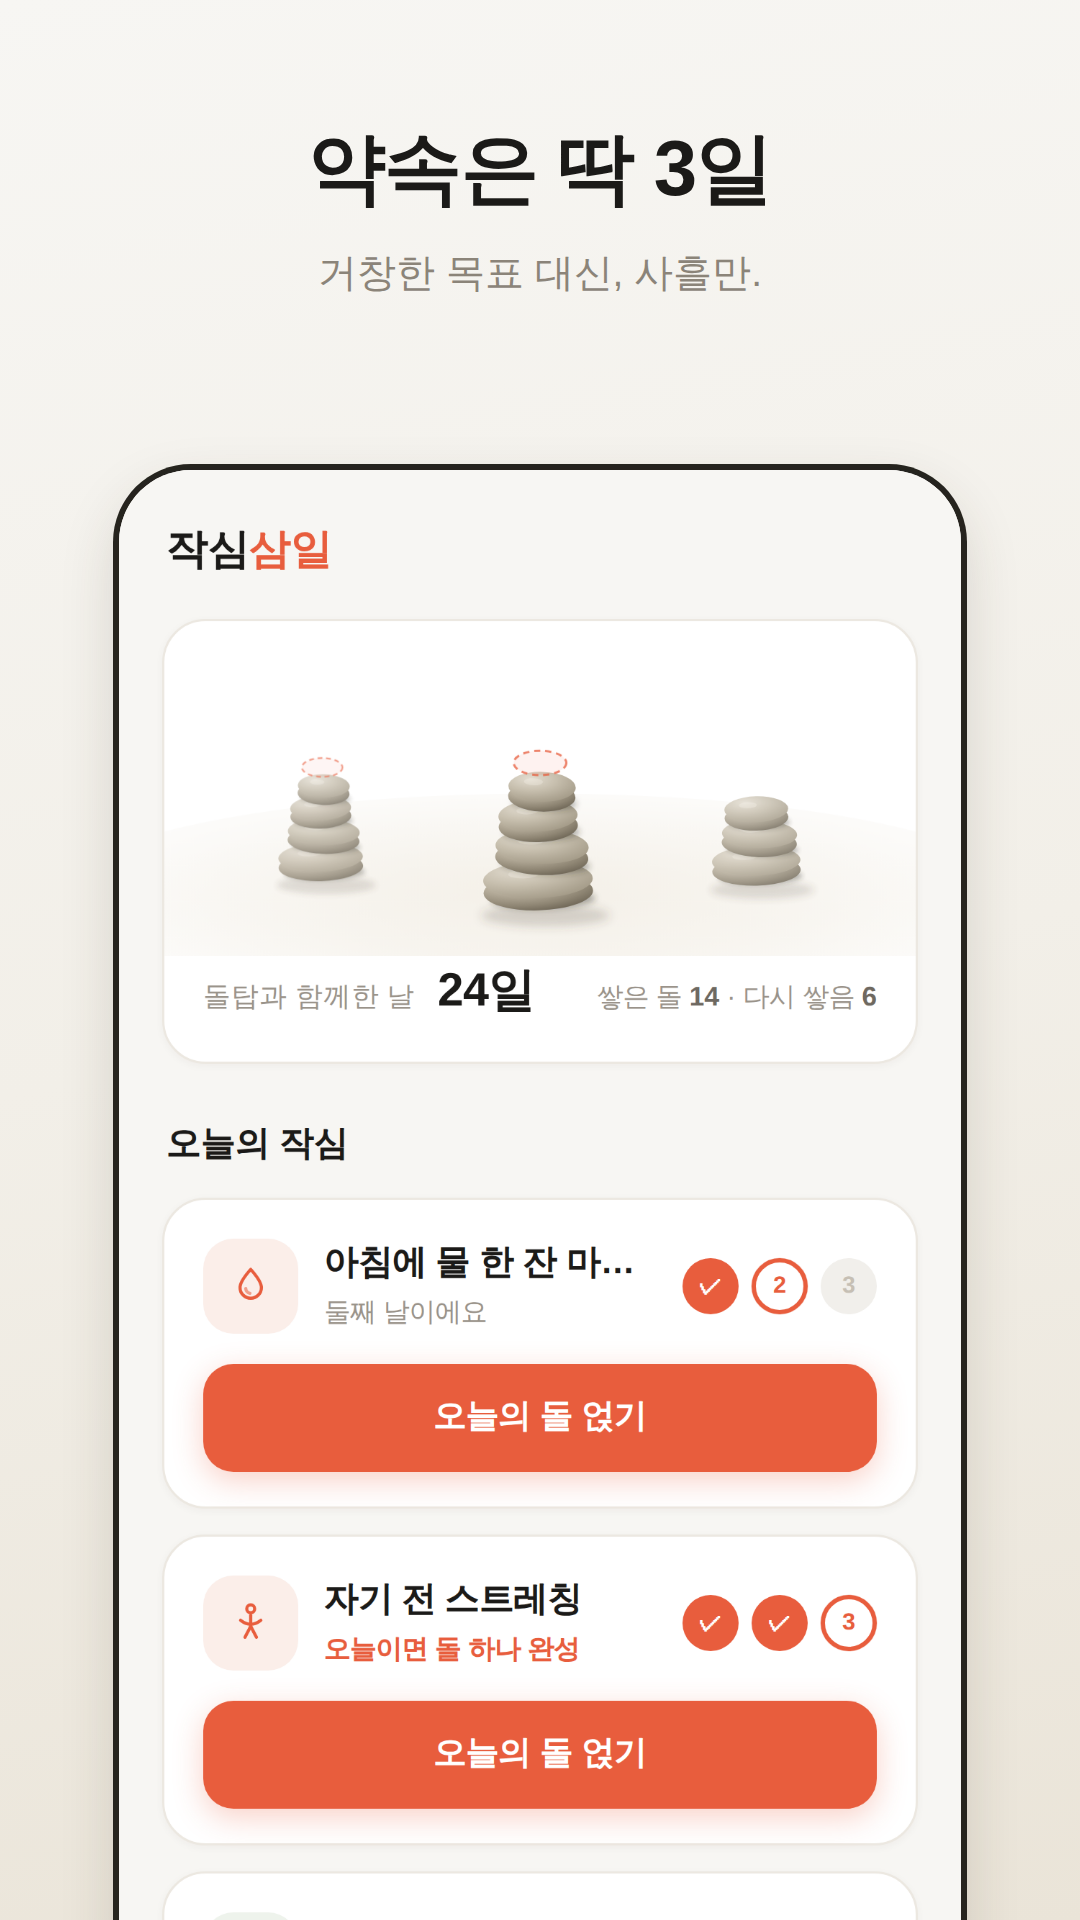
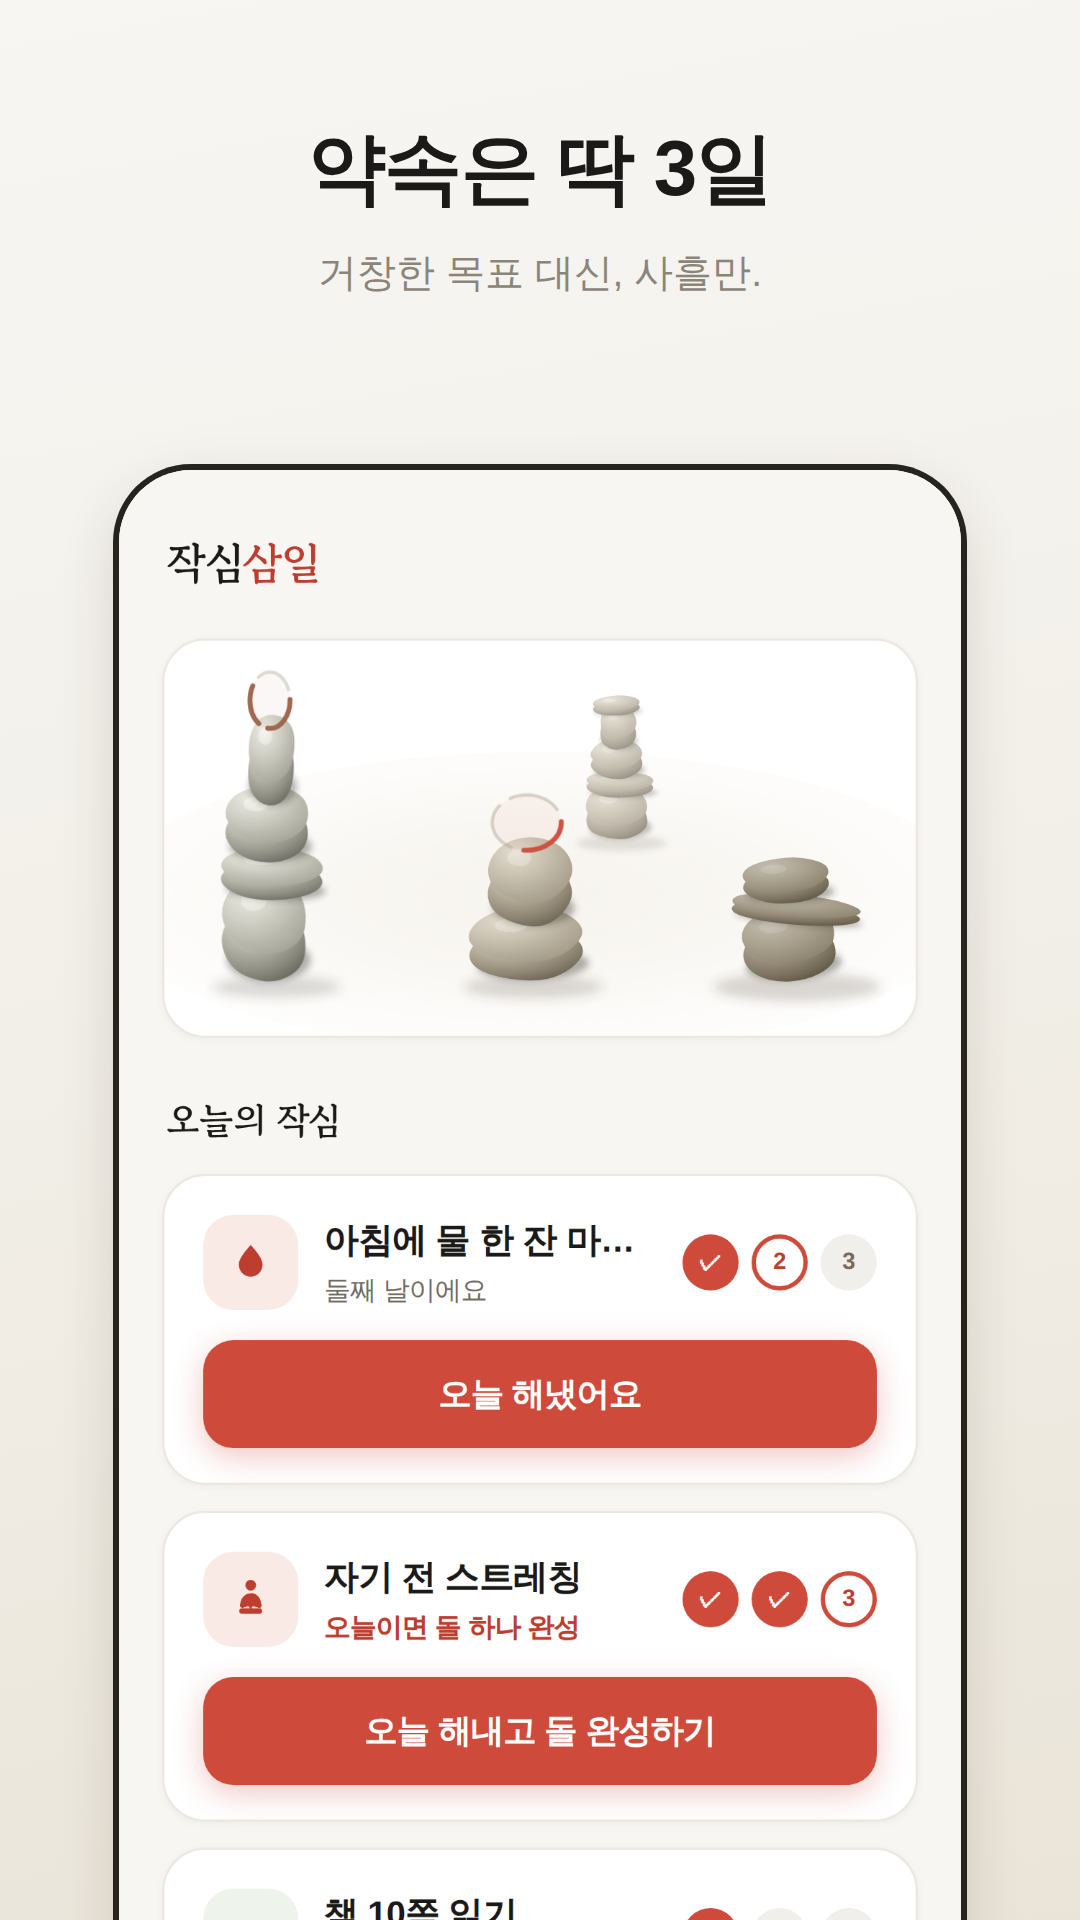
스토어 사진이 지금 앱을 찍은 것이 아니었다
등록해 둔 스크린샷 열다섯 장이 8월 2일 것이었다. 그 뒤로 돌탑을 통째로
다시 그렸고(조약돌 윤곽과 원근), 3일을 채운 순간에 돌을 고르는 화면이
생겼고, '무너지고'라는 말을 '멈췄다가'로 바꿨다. 스토어에 올릴 사진만
그 전 앱을 보여 주고 있었던 셈이다. 심사에서 걸릴 종류는 아니지만,
받아 본 사람이 처음 여는 화면이 사진과 다르면 그건 그냥 거짓 광고다.

다시 찍으려니 스크립트가 먼저 멈췄다. 첫 화면을 '읽기'에서 '하기'로
바꾼 뒤로 인트로와 안내 다섯 장이 앱을 덮는데, 스크립트는 예전처럼
그냥 눌러 들어가려다 전부 덮개에 막혔다. 검사가 하는 것과 같은 방법으로
꺼 둔다. 두 번째 장면도 마찬가지였다 — 3일째를 누르면 이제 축하가 아니라
돌 고르기가 먼저 뜨므로, 고르지 않으면 사진에 담기는 것이 완성된 탑이
아니라 고르는 화면이었다.

'작심삼일 × 120 = 1년'도 360일로 고쳤다. 앱 안에서 지운 문구를 스토어에만
남겨 두면 고친 의미가 없다.

크로미움 경로도 두 스크립트에서 걷어내 test/browser.js를 쓰게 했다.
검사에서 같은 이유로 이미 걷어낸 것인데, 스크립트만 남겨 두면 정작
사진이 필요한 날 남의 컴퓨터에서 안 돌아간다.

Claude-Session: https://claude.ai/code/session_01QNcUG4P16zMQ72NDYJBc1J

diff --git a/scripts/make-store-shots.js b/scripts/make-store-shots.js
@@ -6,7 +6,7 @@
  *   node scripts/make-store-shots.js
  */
 
-const { chromium } = require("playwright-core");
+const { launchBrowser } = require("../test/browser");
 const http = require("http");
 const fs = require("fs");
 const path = require("path");
@@ -14,9 +14,6 @@ const path = require("path");
 const ROOT = path.resolve(__dirname, "..");
 const OUT = path.join(ROOT, "store", "screenshots");
 const PORT = 8944;
-const CHROME =
-  process.env.CHROMIUM_PATH ||
-  "/opt/pw-browsers/chromium_headless_shell-1194/chrome-linux/headless_shell";
 
 const MIME = {
   ".html": "text/html; charset=utf-8",
@@ -102,7 +99,14 @@ const SCENES = [
       await page.reload({ waitUntil: "load" });
       await page.waitForTimeout(400);
       await page.click(".goal-card .btn-primary");
-      await page.waitForTimeout(2000);
+      /* 3일째를 채우면 축하가 바로 오지 않는다 — 어떤 돌을 얹을지 먼저
+         고르게 되어 있다. 여기서 고르지 않으면 사진에 담기는 것은 완성된
+         탑이 아니라 고르는 화면이다. */
+      await page.waitForSelector("#pick-stone", { state: "visible" });
+      await page.waitForTimeout(400);
+      await page.locator(".pick-opt").nth(1).click();
+      await page.waitForSelector("#cheer", { state: "visible" });
+      await page.waitForTimeout(1200);
     },
     skipReload: true,
   },
@@ -134,7 +138,8 @@ const SCENES = [
   },
   {
     file: "05-garden",
-    headline: "작심삼일 × 120 = 1년",
+    // 120 × 3 = 360일. 앱 안에서 '1년'을 지운 문구를 스토어에만 남길 수 없다
+    headline: "작심삼일 × 120 = 360일",
     sub: "그렇게 평생이 됩니다.",
     setup: (page) => page.evaluate((g) => {
       localStorage.setItem("jaksim3.v1", JSON.stringify({ goals: g }));
@@ -201,7 +206,7 @@ function frameHTML({ shot, headline, sub, w, h }) {
 
 (async () => {
   const server = await serve();
-  const browser = await chromium.launch({ executablePath: CHROME });
+  const browser = await launchBrowser();
   fs.mkdirSync(OUT, { recursive: true });
 
   const base = `http://localhost:${PORT}/index.html`;
@@ -214,6 +219,20 @@ function frameHTML({ shot, headline, sub, w, h }) {
       deviceScaleFactor: 3,
     });
     const page = await ctx.newPage();
+    /* 인트로와 첫 사용 안내를 꺼 둔다.
+     *
+     * 스토어 사진은 '앱을 얼마간 써 온 사람의 화면'이어야 하는데, 그냥 열면
+     * 인트로가 덮고 그 위에 안내 다섯 장이 올라온다. 예전에는 첫 실행이
+     * 조용해서 이 스크립트가 그냥 눌러 들어갔지만, 첫 화면을 '읽기'에서
+     * '하기'로 바꾼 뒤로는 클릭이 전부 덮개에 막힌다. */
+    await page.addInitScript(() => {
+      localStorage.setItem("jaksim3.onboarded", "1");
+      const style = document.createElement("style");
+      style.textContent = ".intro{display:none !important}";
+      const put = () => document.head && document.head.appendChild(style);
+      if (document.head) put();
+      else document.addEventListener("DOMContentLoaded", put);
+    });
     await page.goto(base, { waitUntil: "load" });
     await scene.setup(page);
     if (!scene.skipReload) await page.reload({ waitUntil: "load" });

diff --git a/scripts/make-native-assets.js b/scripts/make-native-assets.js
@@ -6,14 +6,11 @@
  *   node scripts/make-native-assets.js
  */
 
-const { chromium } = require("playwright-core");
+const { launchBrowser } = require("../test/browser");
 const fs = require("fs");
 const path = require("path");
 
 const ROOT = path.resolve(__dirname, "..");
-const CHROME =
-  process.env.CHROMIUM_PATH ||
-  "/opt/pw-browsers/chromium_headless_shell-1194/chrome-linux/headless_shell";
 
 const BG = "#26241f"; // 아이콘 배경 (짙은 잉크)
 const SPLASH_BG = "#f7f6f3"; // 실행 화면 배경 (앱 배경과 같게)
@@ -107,7 +104,7 @@ const ANDROID_SPLASH = [
 ];
 
 (async () => {
-  const browser = await chromium.launch({ executablePath: CHROME });
+  const browser = await launchBrowser();
 
   const shoot = async (svg, w, h, outPath, transparent) => {
     const page = await browser.newPage({ viewport: { width: w, height: h } });
